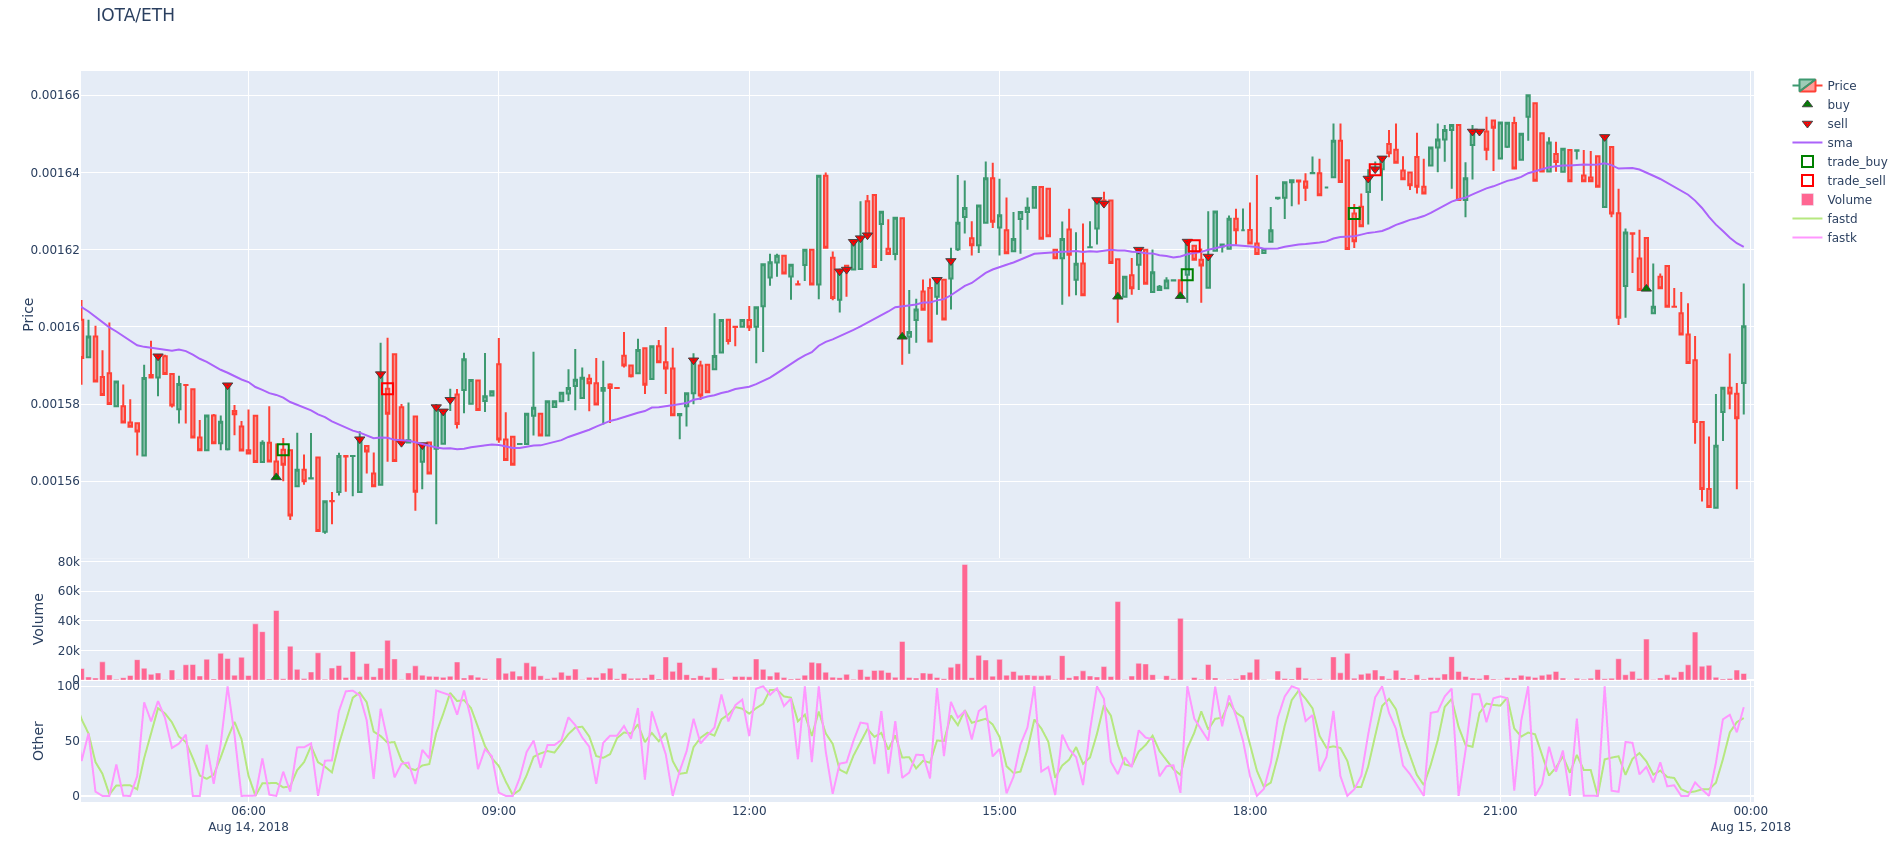
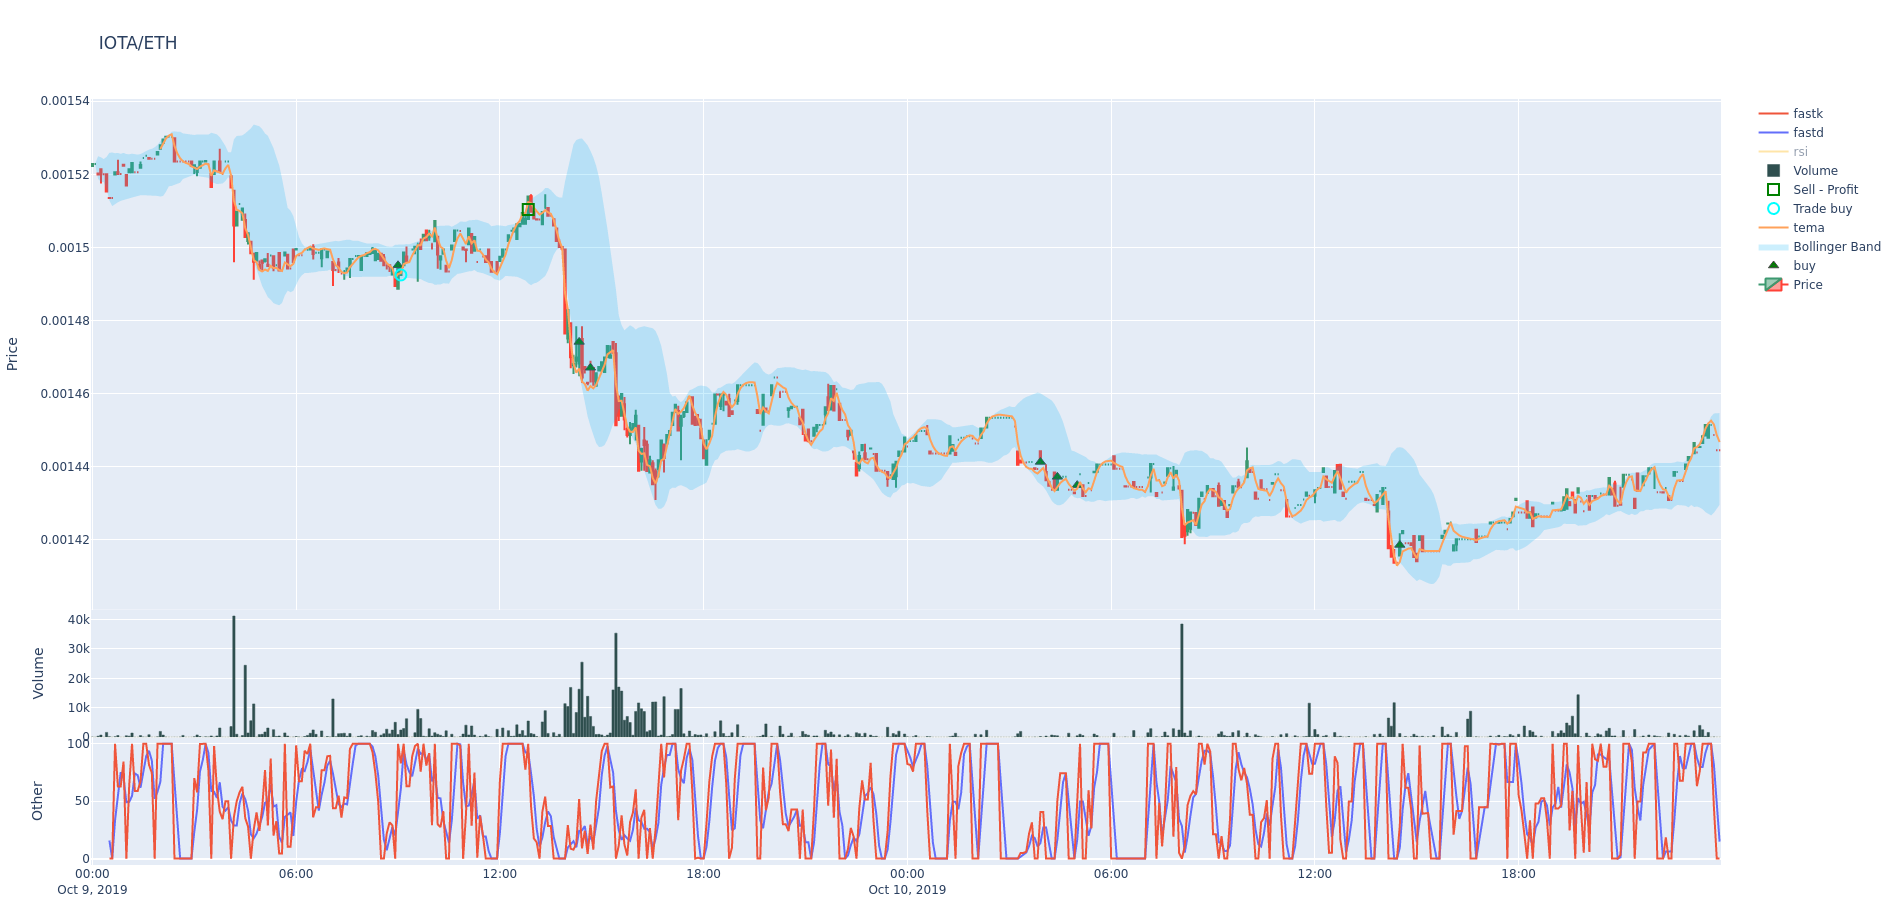
Regenerate plots with new settings

diff --git a/freqtrade/plot/plotting.py b/freqtrade/plot/plotting.py
@@ -429,8 +429,8 @@ def load_and_plot_trades(config: Dict[str, Any]):
             pair=pair,
             data=dataframe,
             trades=trades_pair,
-            indicators1=config["indicators1"],
-            indicators2=config["indicators2"],
+            indicators1=config.get("indicators1", []),
+            indicators2=config.get("indicators2", []),
             plot_config=strategy.plot_config if hasattr(strategy, 'plot_config') else {}
         )
 

diff --git a/docs/plotting.md b/docs/plotting.md
@@ -122,7 +122,7 @@ freqtrade plot-dataframe --strategy AwesomeStrategy --export-filename user_data/
 
 ### Plot dataframe basics
 
-![plot-dataframe](assets/plot-dataframe.png)
+![plot-dataframe2](assets/plot-dataframe2.png)
 
 plot-dataframe will require backtesting data, a strategy as well as either a backtesting-results file or a Database file, containing trades corresponding to the strategy.
 